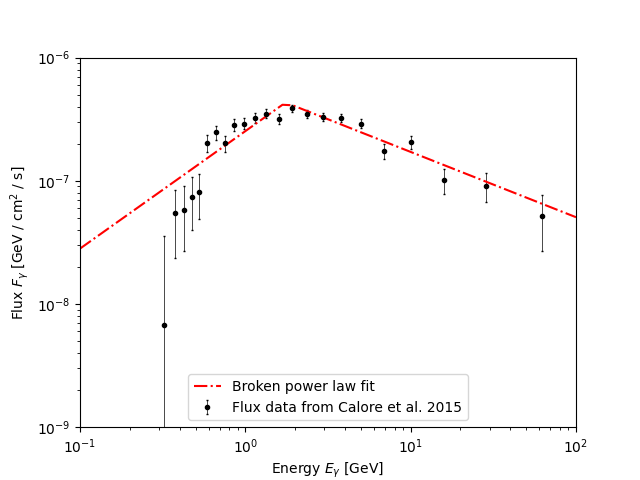
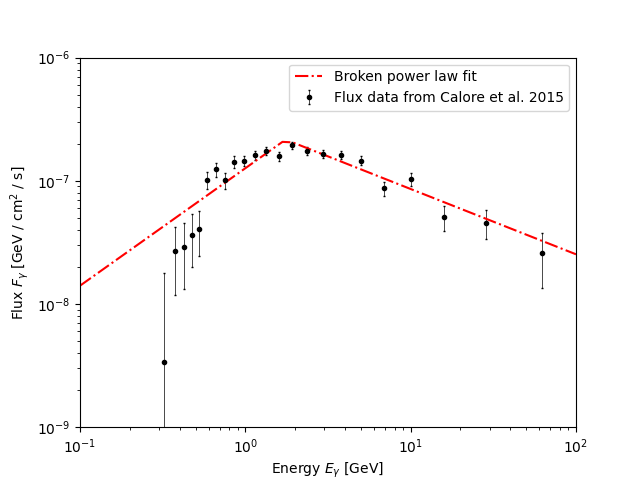
minor

diff --git a/Flux/flux.py b/Flux/flux.py
@@ -26,7 +26,7 @@ g = 1.2            #kpc            #gamma-sloper (gNFW)
 rc = 8.5           #kpc            #Earth-GC distance
 
 # integration over ROI
-num = integrate.nquad(gNRW2, [ [l_min, l_max], [b_min, b_max], [1.0e-6 , np.infty],] , args=(rs, g, rc))[-1]
+num = 4*integrate.nquad(gNRW2, [ [l_min, l_max], [b_min, b_max], [1.0e-6 , np.infty],] , args=(rs, g, rc))[-1]
 i1 = integrate.quad(np.cos, l_min , l_max)[0]
 i2 = integrate.quad(np.cos, b_min , b_max)[0]
 ang_norm =4*i1*i2
